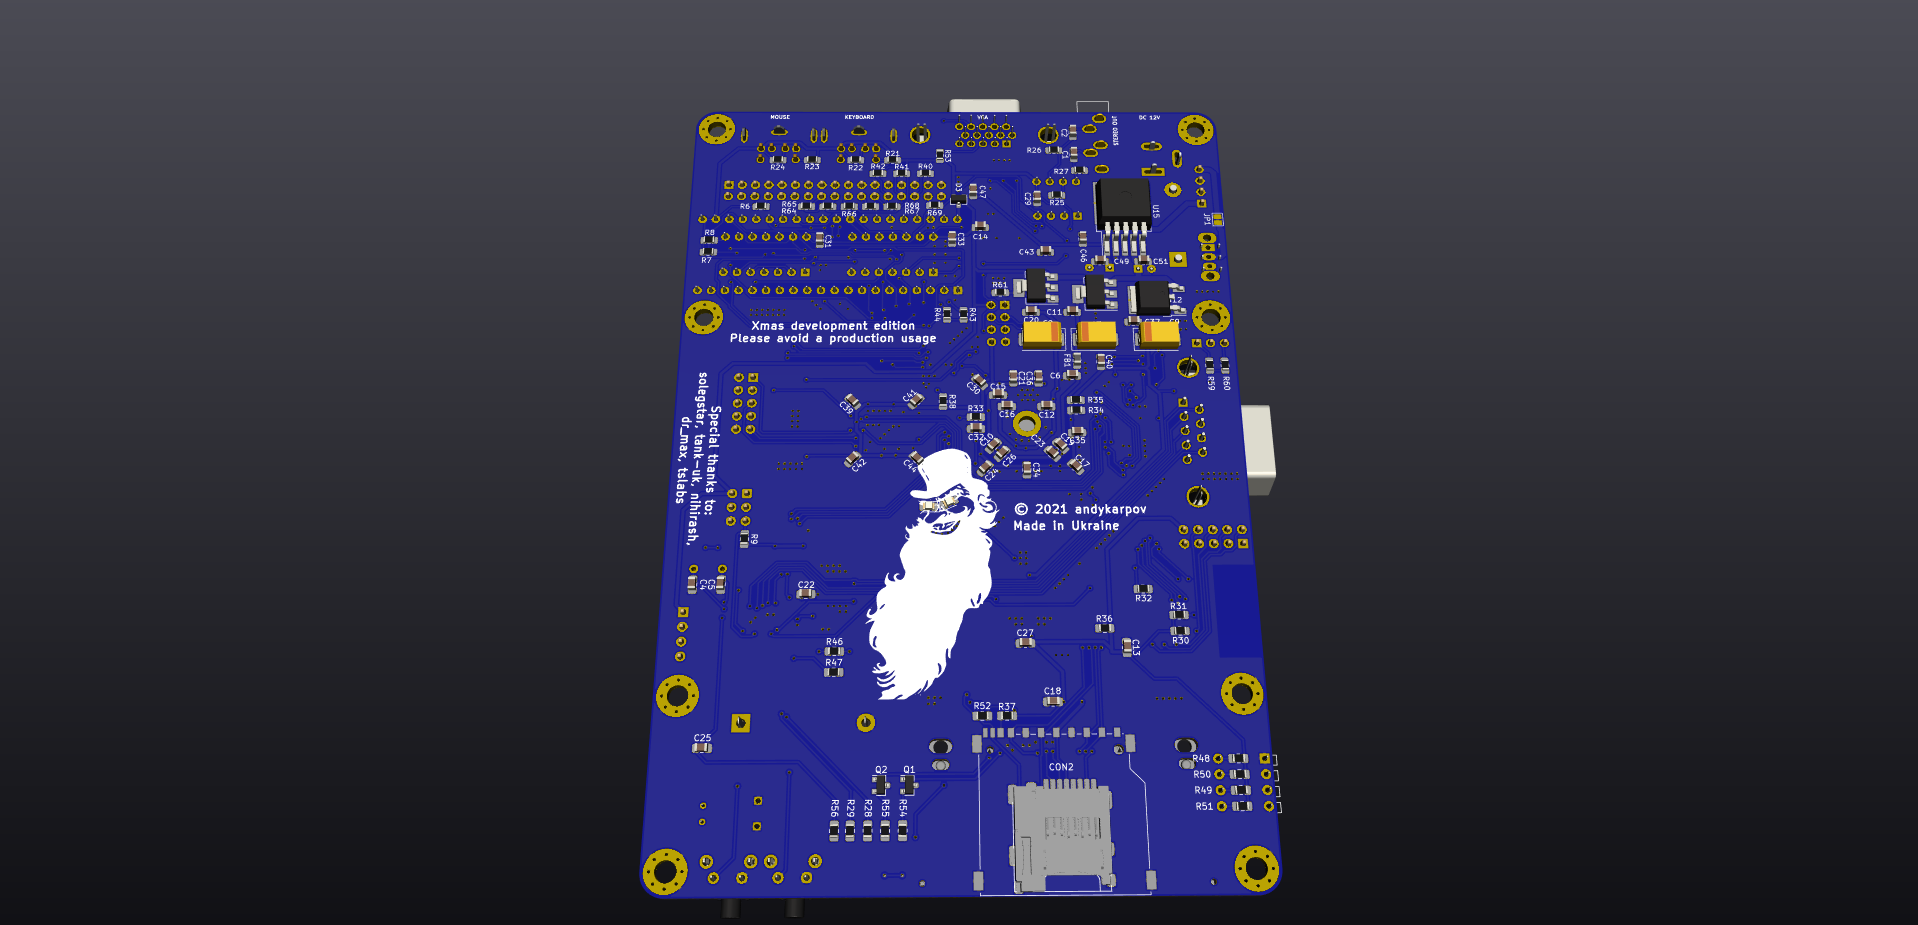
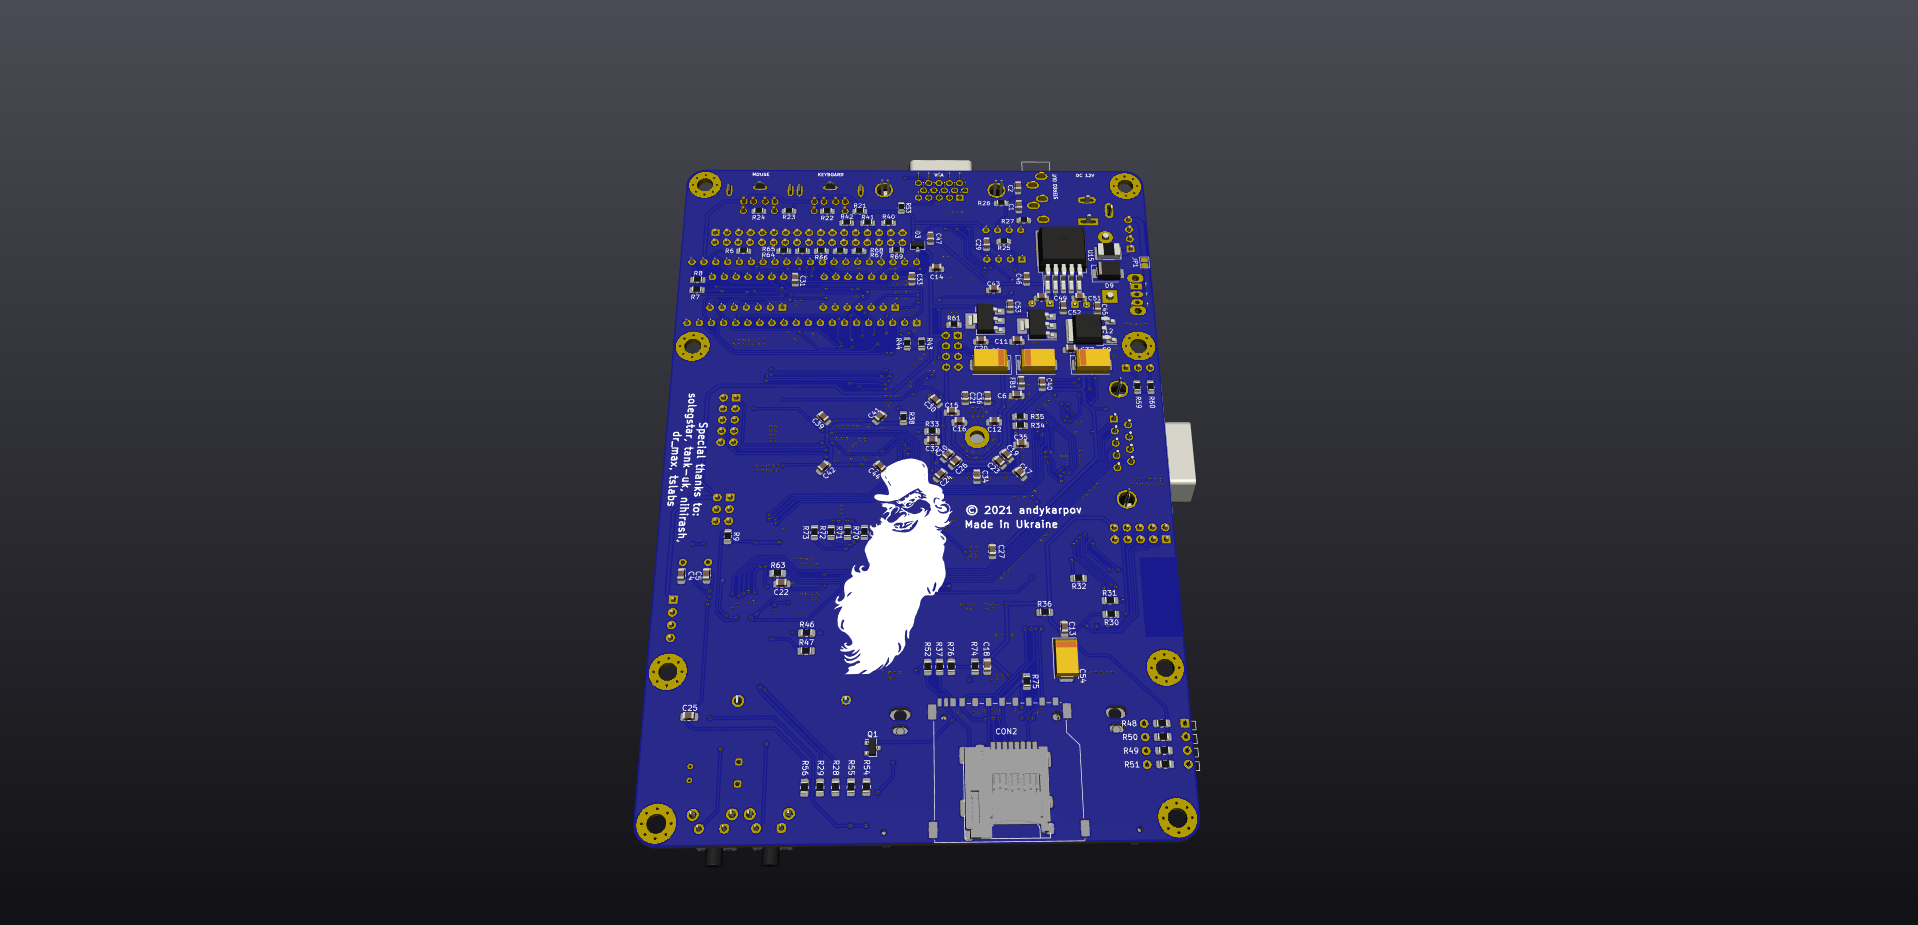
Updated renders

Changed region(s): [[0.3076, 0.0908, 0.6767, 0.9989]]

diff --git a/README.md b/README.md
@@ -61,9 +61,7 @@ Your support matters!
 
 ### Pre-production renders:
 
-![image](https://github.com/andykarpov/karabas-pro/raw/master/docs/photos/karabas-pro-revC-top.png)
+![image](https://github.com/andykarpov/karabas-pro/raw/master/docs/photos/karabas-pro-revD-top.png)
 
-![image](https://github.com/andykarpov/karabas-pro/raw/master/docs/photos/karabas-pro-revC-bot.png)
-
-![image](https://github.com/andykarpov/karabas-pro/raw/master/docs/photos/karabas-pro-revC-back.png)
+![image](https://github.com/andykarpov/karabas-pro/raw/master/docs/photos/karabas-pro-revD-bot.png)
 
